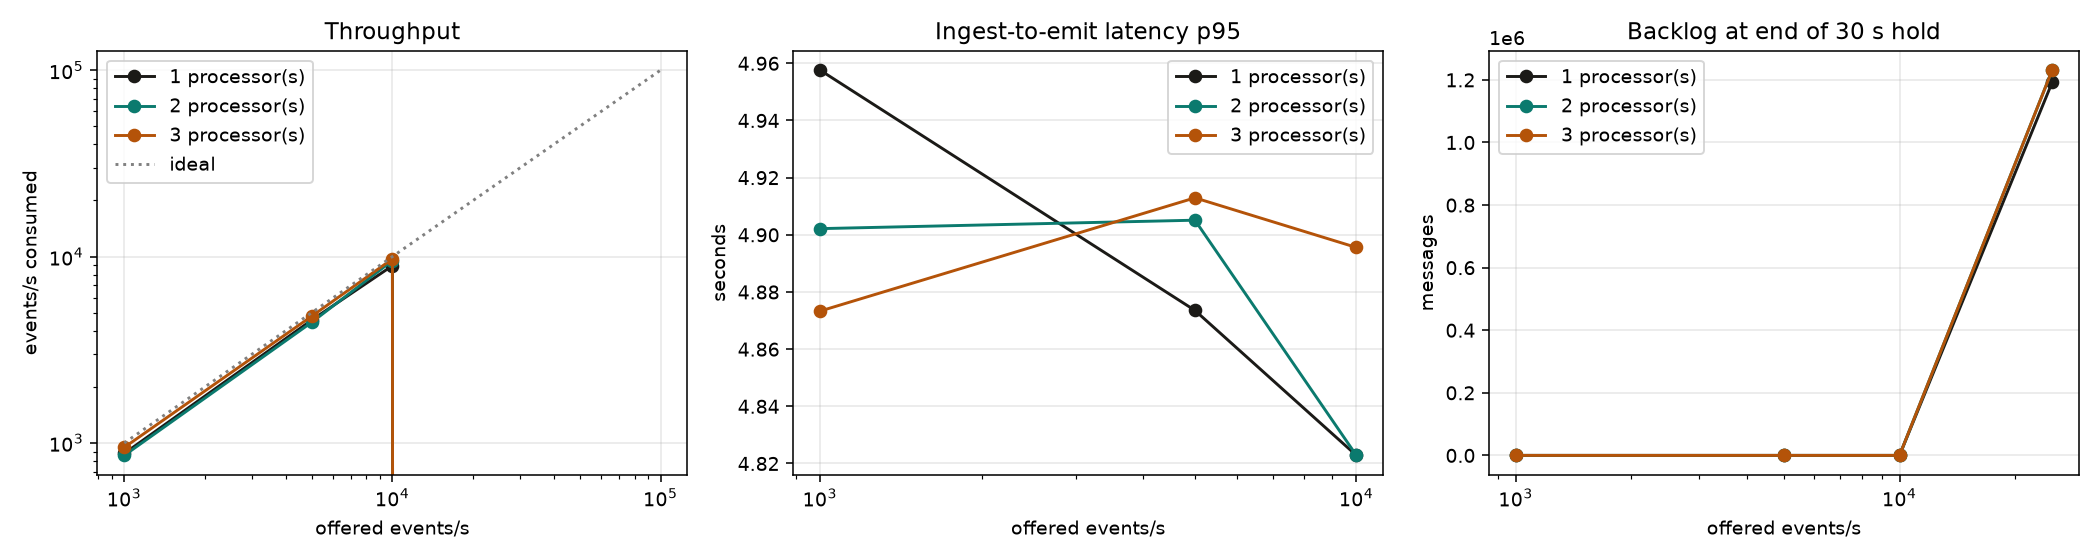
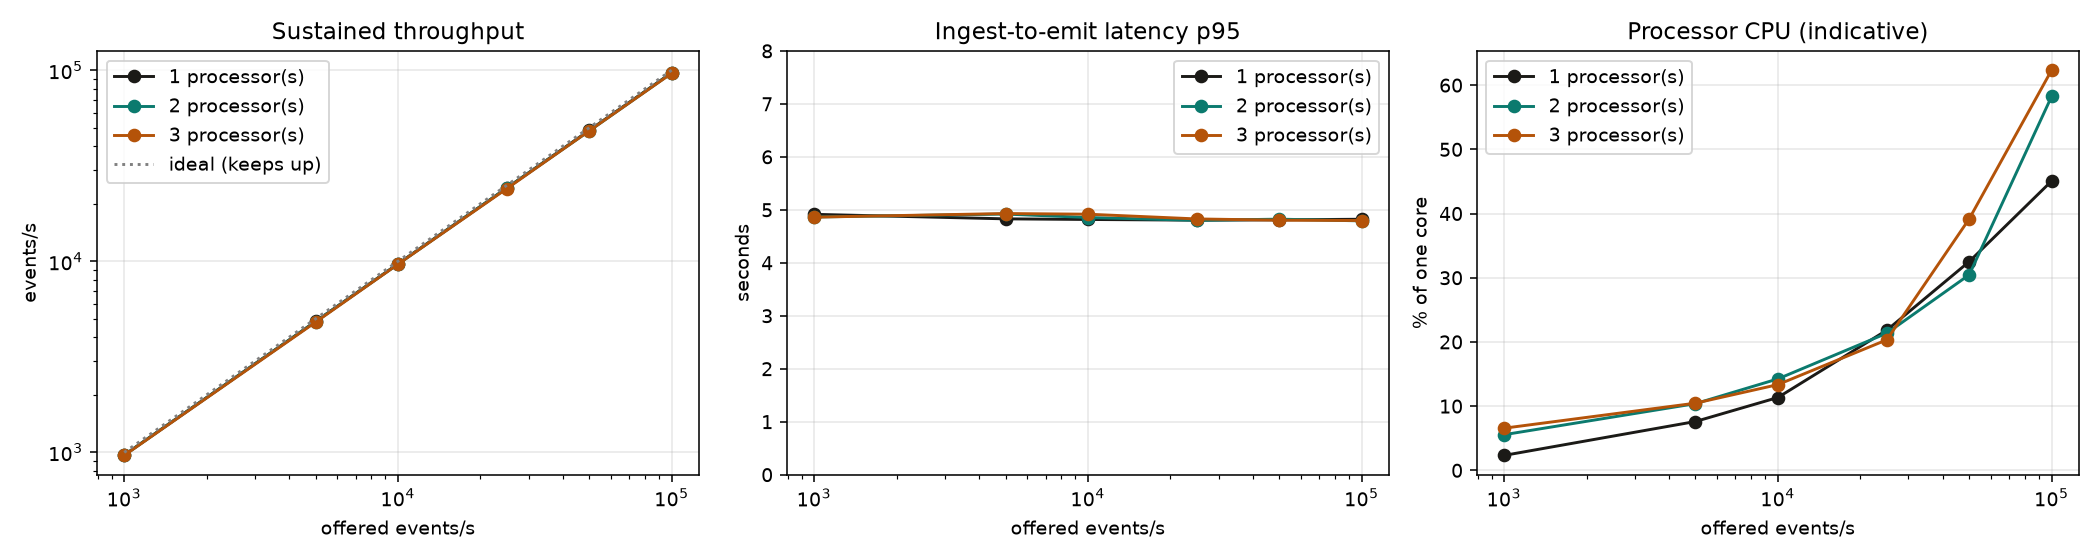
Load test results, docs cleanup, recovery e2e spec

diff --git a/web/tests/e2e/recovery.spec.ts b/web/tests/e2e/recovery.spec.ts
@@ -1,0 +1,62 @@
+import { execSync } from "node:child_process";
+import { expect, test } from "@playwright/test";
+
+// Destructive: kills a processor and a broker on the running stack, then checks that the UI shows the
+// failure and the recovery. Opt-in:  E2E_DESTRUCTIVE=1 pnpm exec playwright test recovery
+test.skip(!process.env.E2E_DESTRUCTIVE, "set E2E_DESTRUCTIVE=1 to kill containers");
+
+const sh = (cmd: string) => execSync(cmd, { cwd: "..", encoding: "utf8" }).trim();
+const number = (t: string | null) => Number((t ?? "").replace(/[^\d.]/g, ""));
+
+test.describe.configure({ mode: "serial" });
+
+test("killing a processor shows a rebalance and the survivor takes over", async ({ page }) => {
+  await page.goto("/pipeline");
+  const cells = page.locator(".pmap__cell").first().locator("xpath=..");
+  const groupCells = page.getByLabel("Consumer group occupancy-processor").locator(".pmap__cell");
+  await expect(groupCells).toHaveCount(6, { timeout: 60_000 });
+  const owners = async () => new Set(await groupCells.locator(".pmap__owner").allTextContents());
+  await expect.poll(async () => (await owners()).size, { timeout: 60_000 }).toBe(2);
+  void cells;
+
+  const victim = sh("docker compose ps -q processor").split("\n")[0]!;
+  sh(`docker kill ${victim}`);
+
+  // Rebalancing is visible in the UI, then a single owner holds all 6 partitions
+  await expect(page.getByText("Rebalancing").first()).toBeVisible({ timeout: 45_000 });
+  await expect.poll(async () => (await owners()).size, { timeout: 60_000 }).toBe(1);
+  await expect(page.getByText(/rebalance finished|assignment changed/).first()).toBeVisible();
+
+  // The survivor restored state from the changelog (the log shows it), and data keeps flowing
+  const logs = sh("docker compose logs --no-log-prefix --since 2m processor");
+  expect(logs).toMatch(/partition assigned.*restored_lots/);
+  await page.goto("/");
+  const eps = page.locator(".strip .stat", { hasText: "Events / s" }).locator(".stat__value");
+  await expect.poll(async () => number(await eps.textContent()), { timeout: 30_000 }).toBeGreaterThan(0);
+
+  // Bring the second processor back: partitions move again (cooperative rebalance)
+  sh("docker compose up -d --scale processor=2 processor");
+  await page.goto("/pipeline");
+  await expect.poll(async () => (await owners()).size, { timeout: 90_000 }).toBe(2);
+});
+
+test("killing a broker shows it Down, leaders move, and data keeps flowing", async ({ page }) => {
+  await page.goto("/pipeline");
+  await expect(page.getByText("kafka-2")).toBeVisible({ timeout: 30_000 });
+  sh("docker kill kafka-2");
+
+  const row = page.getByRole("row", { name: /kafka-2/ });
+  await expect(row.getByText(/Down/)).toBeVisible({ timeout: 45_000 });
+  // Its partitions were re-elected onto the two surviving brokers
+  const leads = (id: string) => page.getByRole("row", { name: new RegExp(`kafka-${id}`) }).locator("td").nth(1);
+  await expect.poll(async () => number(await leads("1").textContent()) + number(await leads("3").textContent()), { timeout: 45_000 }).toBe(22);
+  // Pipeline keeps moving with one broker down (RF 3, min ISR 2)
+  await page.goto("/");
+  await expect(page.getByText("2", { exact: true }).first()).toBeVisible();
+  const eps = page.locator(".strip .stat", { hasText: "Events / s" }).locator(".stat__value");
+  await expect.poll(async () => number(await eps.textContent()), { timeout: 30_000 }).toBeGreaterThan(0);
+
+  sh("docker compose start kafka-2");
+  await page.goto("/pipeline");
+  await expect(page.getByRole("row", { name: /kafka-2/ }).getByText("Up")).toBeVisible({ timeout: 90_000 });
+});

diff --git a/scripts/load_test.py b/scripts/load_test.py
@@ -103,12 +103,10 @@ def step(processors: int, offered: int) -> Row:
 
     drained = c.wait_until(lambda: c.raw_backlog()[0] == 0, DRAIN_TIMEOUT_S, 1)
     drain_s = drained if drained is not None else -1.0
-    # Throughput = events consumed per second over the period from the first event to the moment the
-    # backlog cleared (or the end of the hold if it never did): what the processors actually sustained.
+    # Sustained throughput: every produced event divided by the time from the first event until the
+    # backlog cleared (the hold plus the drain). With no backlog left this equals the produced rate.
     consumed_rate = (
-        delivered / max(HOLD_S, load_seconds + (drain_s if drain_s >= 0 else 0))
-        if drain_s >= 0
-        else max(0.0, consumed_during) / load_seconds
+        delivered / (HOLD_S + drain_s) if drain_s >= 0 else max(0.0, consumed_during) / load_seconds
     )
     time.sleep(6)  # let Prometheus scrape the final counters
     window = int(load_seconds) + 10

diff --git a/docs/RESULTS.md b/docs/RESULTS.md
@@ -90,23 +90,9 @@ Every item below was found by executing the system (or by reviewing code that ha
 | 9 | Measurement | "Graceful stop" of a broker reports a 1.7 s election because the broker hands off leadership before exiting; a crash takes 9 s. | Broker scenario. | The scenario defaults to SIGKILL and keeps the graceful run as a labelled data point. |
 | 10 | Measurement | The first latency metric measured the age of a quiet window's last occupancy event (p95 29 s). | Prometheus check. | Per-event ingest-to-emit sampling (D18). |
 | 11 | Demo | Rebuilding images mid-run recreated the simulator and processors with a fresh clock; a restart with a different `--start` leaves processors with a stale watermark. | Frontend session. | `make demo-reset`; the first pre-demo step in DEMO.md. |
+| 12 | Processor | Checkpoint size grew with the event rate (every event id, heartbeats included, kept for 300 s and written into each lot's checkpoint) until it exceeded Kafka's 1 MB message limit at 25,000 events/s: the processors refused to checkpoint and crash-looped. | Load test (the chaos drills never reach that rate). | De-duplicate only state-changing events; `max.message.bytes` 16 MB on `state.changelog`; unit test that heartbeat ids are not remembered. |
 
 ## Phase 8: chaos runs (appended by scripts/chaos_*.py)
-
-### Processor crash: PASS (2026-09-26 16:00 UTC)
-SIGKILL one of 2 processors at ~35 s of a 90 s run (speed 60)
-
-| Result | Expectation | Measured |
-|---|---|---|
-| PASS | survivor assigned the 3 orphaned partitions within 30 s | 11.5 s |
-| PASS | state restored from state.changelog | 6 lots restored |
-| PASS | consumer lag drains to 0 | 5 s |
-| PASS | no gaps: every closed window is in the database | missing=0 |
-| PASS | no wrong values vs ground truth | 204 windows compared, 0 mismatches |
-| PASS | no duplicate rows | 228 rows / 228 keys |
-
-- takeover time (kill to partitions assigned): 11.5 s
-- simulator events sent: 130499
 
 ### Sink outage: PASS (2026-09-26 16:05 UTC)
 stop TimescaleDB for 60 s at ~30 s of a 120 s run (speed 60)
@@ -136,20 +122,6 @@ stop TimescaleDB for 60 s at ~30 s of a 120 s run (speed 60)
 | PASS | valid data unaffected: windows match ground truth | 192 windows compared, 0 mismatches, 0 missing |
 
 - messages sent / malformed: 136959 / 6482
-
-### Late and duplicate data: PASS (2026-09-26 16:12 UTC)
---late-pct 10 --dup-pct 5, in-grace (A) and beyond-grace (B) delays
-
-| Result | Expectation | Measured |
-|---|---|---|
-| PASS | A: every duplicate dropped | sent 7314, dropped 7314 |
-| PASS | A: nothing late enough for parking.late | late=0, 98 events were delayed |
-| PASS | A: in-grace late events land in the right windows (matches ground truth) | 228 windows compared, 0 mismatches, 0 missing |
-| PASS | B: every duplicate dropped | sent 7208, dropped 7208 |
-| PASS | B: beyond-grace events routed to parking.late | 29 routed of 87 delayed (the rest were inside the grace period) |
-| PASS | B: every parking.late record is past its window's close time | 29 records |
-
-- B: worst lateness recorded: 527 s behind the watermark
 
 ### Measurement notes from developing the lag-spike scenario
 Five earlier runs were discarded because the method, not the pipeline, was wrong. They are recorded because each is a methodology lesson for the paper:
@@ -222,22 +194,64 @@ HyperLogLog p=10: 1,024 bytes of registers, theoretical standard error 3.25%. Ex
 | 100,000 | 5 | 3.78% | 5.43% | 9,663 KiB | 1 KiB |
 | 1,000,000 | 2 | 4.26% | 7.57% | 88,432 KiB | 1 KiB |
 
-### Load test: ramp at 1, 2 and 3 processors (2026-09-26 18:16 UTC)
-`make load-test`. 30 s per step, valid events at an exact offered rate (30% OCCUPANCY, 70% HEARTBEAT, 12 lots x 200 slots, production producer settings), event time = wall time. Generator and stack share one machine (10 CPUs, Docker Desktop), so figures are a lower bound. Backlog = `parking.raw` end offsets minus events consumed. Latency is ingest-to-emit from Prometheus (sampled 1 in 8 events); the 5 s emit interval sets its floor. Charts: `docs/loadtest/load_test.png`, data: `docs/loadtest/load_test.csv`.
+### Load test: ramp at 1, 2 and 3 processors (2026-09-26, `make load-test`)
+30 s per step, valid events at an exact offered rate (30% OCCUPANCY, 70% HEARTBEAT, 12 lots x 200 slots, production producer settings: idempotent, `acks=all`, lz4), event time = wall time. Generator and stack share one 10-CPU machine (Docker Desktop), so figures are a lower bound. Backlog = `parking.raw` end offsets minus events the processors report consuming. Latency = ingest-to-emit from Prometheus (1 in 8 events sampled). Data: `docs/loadtest/load_test.csv`; chart: `docs/loadtest/load_test.png`.
 
-| Processors | Offered/s | Produced/s | Consumed/s | p50 | p95 | p99 | Backlog at end | Drain | Processor CPU | |
-|---|---|---|---|---|---|---|---|---|---|---|
-| 1 | 1,000 | 1,001 | 878 | 2.8 s | 5.0 s | 8.8 s | 0 | 1 s | 5% |  |
-| 1 | 5,000 | 5,008 | 4,563 | 2.7 s | 4.9 s | 7.9 s | 0 | 1 s | 9% |  |
-| 1 | 10,000 | 10,007 | 8,934 | 2.6 s | 4.8 s | 6.6 s | 0 | 1 s | 16% |  |
-| 1 | 25,000 | 25,028 | -14,480 | nan s | nan s | nan s | 1,192,332 | n/a | 1% | saturated |
-| 2 | 1,000 | 1,002 | 858 | 2.6 s | 4.9 s | 8.4 s | 0 | 1 s | 5% |  |
-| 2 | 5,000 | 5,008 | 4,439 | 2.7 s | 4.9 s | 8.4 s | 0 | 1 s | 11% |  |
-| 2 | 10,000 | 10,008 | 9,519 | 2.6 s | 4.8 s | 6.5 s | 0 | 1 s | 20% |  |
-| 2 | 25,000 | 25,024 | -13,930 | nan s | nan s | nan s | 1,231,261 | n/a | 1% | saturated |
-| 3 | 1,000 | 1,001 | 947 | 2.6 s | 4.9 s | 8.0 s | 0 | 1 s | 7% |  |
-| 3 | 5,000 | 5,005 | 4,786 | 2.6 s | 4.9 s | 8.5 s | 0 | 1 s | 14% |  |
-| 3 | 10,000 | 10,012 | 9,713 | 2.6 s | 4.9 s | 8.3 s | 0 | 1 s | 23% |  |
-| 3 | 25,000 | 25,020 | -15,407 | nan s | nan s | nan s | 1,231,140 | n/a | 53% | saturated |
+| Processors | Offered/s | Produced/s | Sustained/s | p50 | p95 | p99 | Backlog at end of hold | Drain after hold | Processor CPU (indicative) |
+|---|---|---|---|---|---|---|---|---|---|
+| 1 | 1,000 | 1,001 | 969 | 2.7 s | 4.9 s | 8.5 s | 0 | 1 s | 2% |
+| 1 | 5,000 | 5,008 | 4,842 | 2.5 s | 4.8 s | 7.0 s | 0 | 1 s | 8% |
+| 1 | 10,000 | 10,014 | 9,697 | 2.5 s | 4.8 s | 6.4 s | 0 | 1 s | 11% |
+| 1 | 25,000 | 25,023 | 24,202 | 2.5 s | 4.8 s | 5.5 s | 0 | 1 s | 22% |
+| 1 | 50,000 | 50,067 | 48,453 | 2.6 s | 4.8 s | 5.7 s | 0 | 1 s | 33% |
+| 1 | 100,000 | 100,126 | 97,066 | 2.6 s | 4.8 s | 6.5 s | 0 | 1 s | 45% |
+| 2 | 1,000 | 1,001 | 967 | 2.6 s | 4.9 s | 7.8 s | 0 | 1 s | 6% |
+| 2 | 5,000 | 5,005 | 4,832 | 2.7 s | 4.9 s | 8.5 s | 0 | 1 s | 10% |
+| 2 | 10,000 | 10,010 | 9,665 | 2.7 s | 4.9 s | 7.5 s | 0 | 1 s | 14% |
+| 2 | 25,000 | 25,026 | 24,168 | 2.5 s | 4.8 s | 5.3 s | 0 | 1 s | 21% |
+| 2 | 50,000 | 50,051 | 48,142 | 2.6 s | 4.8 s | 6.5 s | 0 | 1 s | 30% |
+| 2 | 100,000 | 100,107 | 96,667 | 2.5 s | 4.8 s | 5.0 s | 0 | 1 s | 58% |
+| 3 | 1,000 | 1,002 | 964 | 2.6 s | 4.9 s | 7.8 s | 0 | 1 s | 7% |
+| 3 | 5,000 | 5,006 | 4,800 | 2.7 s | 4.9 s | 8.6 s | 0 | 1 s | 10% |
+| 3 | 10,000 | 10,009 | 9,652 | 2.7 s | 4.9 s | 8.5 s | 0 | 1 s | 13% |
+| 3 | 25,000 | 25,019 | 24,015 | 2.6 s | 4.8 s | 6.8 s | 0 | 1 s | 20% |
+| 3 | 50,000 | 50,053 | 48,175 | 2.5 s | 4.8 s | 5.7 s | 0 | 1 s | 39% |
+| 3 | 100,000 | 100,113 | 96,379 | 2.5 s | 4.8 s | 5.0 s | 0 | 1 s | 62% |
 
-HyperLogLog accuracy and memory (worst error 7.57% at 1M vehicles against a 9.75% limit; 1 KiB per window versus 88 MB for an exact set) is in the section above.
+What the numbers say, and what they do not:
+- **Throughput:** every processor count kept up with every offered rate up to **100,000 events/s** (backlog 0 at the end of each 30 s hold, drained within about 1 to 2 s), so the ramp did **not** reach a saturation point with 1, 2 or 3 processors. A single processor sustained about 100,000 events/s of this mix on this machine. The largest event source in this project (12 lots) is therefore far below what one processor can absorb.
+- **Scaling from 1 to 3 processors is not visible here** because one processor is never the bottleneck at these rates; the scaling evidence is the lag-spike drill above (drain rate 142k to 293k events/s, 2.06x, with a 2.6M-event backlog). Partition count (6) and the skew of real lot IDs bound the parallelism.
+- **Latency is flat, about 4.8 s p95 and 2.5 s p50, at every rate.** It is set by the 5 s emit interval (`EMIT_INTERVAL_S`), not by load; it would only rise if the processors fell behind. Lowering the emit interval lowers the floor.
+- **CPU** is `docker stats` summed over processor containers, sampled once mid-hold; treat it as indicative only (one sample, and it under-reports short bursts).
+- HyperLogLog accuracy and memory (worst error 7.57% at 1,000,000 vehicles against a 9.75% bound; 1 KiB per window versus 88 MB for an exact set) is recorded in the HLL section above and is not repeated here.
+
+**A first run of this test crashed the processors at 25,000 events/s and is not reported as a result.** The processor remembered every event id (heartbeats included) for 300 s of event time and wrote that set into each lot's checkpoint. At 25,000 events/s a lot's checkpoint exceeded Kafka's 1 MB message limit (`MSG_SIZE_TOO_LARGE`); the processor then correctly refused to checkpoint and crash-looped, and consumed counters went backwards. Fixed by de-duplicating only state-changing events (a re-processed heartbeat is idempotent) and raising `max.message.bytes` on `state.changelog` to 16 MB (DECISIONS D27, bug #12 below).
+
+### Late and duplicate data: PASS (2026-09-26 18:39 UTC)
+--late-pct 10 --dup-pct 5, in-grace (A) and beyond-grace (B) delays
+
+| Result | Expectation | Measured |
+|---|---|---|
+| PASS | A: every duplicate dropped | sent 29, dropped 29 |
+| PASS | A: nothing late enough for parking.late | late=0, 74 events were delayed |
+| PASS | A: in-grace late events land in the right windows (matches ground truth) | 216 windows compared, 0 mismatches, 0 missing |
+| PASS | B: every duplicate dropped | sent 31, dropped 31 |
+| PASS | B: beyond-grace events routed to parking.late | 40 routed of 77 delayed (the rest were inside the grace period) |
+| PASS | B: every parking.late record is past its window's close time | 40 records |
+
+- B: worst lateness recorded: 523 s behind the watermark
+
+### Processor crash: PASS (2026-09-26 18:42 UTC)
+SIGKILL one of 2 processors at ~35 s of a 90 s run (speed 60)
+
+| Result | Expectation | Measured |
+|---|---|---|
+| PASS | survivor assigned the 3 orphaned partitions within 30 s | 10.4 s |
+| PASS | state restored from state.changelog | 6 lots restored |
+| PASS | consumer lag drains to 0 | 5 s |
+| PASS | no gaps: every closed window is in the database | missing=0 |
+| PASS | no wrong values vs ground truth | 192 windows compared, 0 mismatches |
+| PASS | no duplicate rows | 228 rows / 228 keys |
+
+- takeover time (kill to partitions assigned): 10.4 s
+- simulator events sent: 130374

diff --git a/docs/CIRCULAR_CHECKLIST.md b/docs/CIRCULAR_CHECKLIST.md
@@ -7,7 +7,7 @@ Status legend: DONE (implemented and verified by running it), PENDING (planned p
 | 1 | Kafka is the central platform | DONE | 3-broker KRaft cluster, RF=3, min.isr=2: `docker-compose.yml` (`kafka-1..3`); topics `infra/create_topics.sh`; every service talks only through topics (`common/topics.py`). `make up` from clean: healthy in 14 s. Survives SIGKILL of a broker (RESULTS.md Phase 8). |
 | 2 | At least one producer and one consumer | DONE | Producers: `simulator/main.py` (`Sender.send`), `processor/app.py` (`ProcessorApp._produce`); config `common/kafka.py:producer_config`. Consumer: `processor/app.py` (`ProcessorApp.run`, group `occupancy-processor`; config `common/kafka.py:consumer_config`). Sink consumer: `sink/main.py` (`Sink.run`, group `timescale-sink`). API feed consumer `api/live.py:KafkaFeed`; alerter: `alerter/main.py` (`main`, groups `alerter`; consumes `lot.occupancy.5min` and `lot.alerts`). |
 | 3 | At least two topics | DONE | 7 topics created by the `init` service via `infra/create_topics.sh` |
-| 4 | Partitioning and consumer groups | DONE | Partitioning: `parking.raw` 6 partitions keyed by `lot_id` (`simulator/main.py`, `common/partitioning.py:balanced_lot_ids`), even spread measured (RESULTS.md, Phase 1). Groups `occupancy-processor`, `timescale-sink`, `alerter` (`common/kafka.py:consumer_config`). **Live rebalance:** `scripts/chaos_processor.py` (SIGKILL one of 2 processors: survivor takes over in 11.5 s, 6 lots restored) and `scripts/chaos_lag.py` (scale 1 to 3 processors, drain rate 142k to 293k events/s); handlers `processor/app.py:_on_assign/_on_revoke`. |
+| 4 | Partitioning and consumer groups | DONE | Partitioning: `parking.raw` 6 partitions keyed by `lot_id` (`simulator/main.py`, `common/partitioning.py:balanced_lot_ids`), even spread measured (RESULTS.md, Phase 1). Groups `occupancy-processor`, `timescale-sink`, `alerter` (`common/kafka.py:consumer_config`). **Live rebalance:** `scripts/chaos_processor.py` (SIGKILL one of 2 processors: survivor takes over in 10.4 s, 6 lots restored) and `scripts/chaos_lag.py` (scale 1 to 3 processors, drain rate 142k to 293k events/s); handlers `processor/app.py:_on_assign/_on_revoke`. |
 | 5 | Window-based streaming operation | DONE | Tumbling 5-min event-time windows with watermark and grace: `processor/lot_state.py` (`LotState._advance_time`, `_is_late`, `_close_ready_windows`), `processor/windows.py:Window`. Unit tests: `tests/unit/test_lot_state.py`. Verified against ground truth (RESULTS.md, Phase 2). |
 | 6 | Aggregation / summarization algorithm | DONE | Time-weighted average, min/max, entries/exits: `processor/lot_state.py` (`_advance_time`, `_shift_count`); HyperLogLog distinct-vehicle sketch: `processor/hll.py:UniqueCounter` used by `processor/windows.py:Window.vehicles`. Error-bound test: `tests/unit/test_lot_state.py::test_hll_error_is_within_three_standard_errors`. |
 | 7 | Fault tolerance / recovery | DONE | State checkpoint to compacted `state.changelog` and restore on assignment: `processor/app.py` (`_checkpoint`, `_on_assign`, `_on_revoke`), `processor/checkpoint.py`. Commit order outputs -> flush -> checkpoint -> commit offsets: `ProcessorApp._checkpoint`. Idempotent sink: `sink/db.py:UPSERT_WINDOW`. SIGTERM path: `ProcessorApp.run`. **Six failure drills, all PASS with measured numbers** (RESULTS.md, Phase 8): `scripts/chaos_broker.py` (SIGKILL broker: election 9.1 s, 0 producer errors, 0 lost), `chaos_processor.py`, `chaos_sink.py` (60 s DB outage, 0 lost/duplicated), `chaos_bad_data.py`, `chaos_late_dup.py`, `chaos_lag.py`. |

diff --git a/docs/RUBRIC_MAPPING.md b/docs/RUBRIC_MAPPING.md
@@ -18,7 +18,7 @@ concepts to a real problem). Check the numbering against the official syllabus b
 
 | Lab-report part | Evidence |
 |---|---|
-| Observations: what happened under failure | `docs/RESULTS.md` Phase 8, generated by `scripts/chaos_*.py` (each prints PASS/FAIL against explicit expectations): broker SIGKILL (leader election 9.1 s, 0 producer errors, 0 lost), broker graceful stop (1.7 s), processor SIGKILL (takeover 11.5 s, 204 windows, 0 gaps/mismatches), sink outage (60 s, 0 lost/duplicated), bad data (6,482 malformed = 6,482 DLQ), late/duplicate data (7,314 duplicates dropped; in-grace late events give 0 mismatches over 228 windows; beyond-grace events in `parking.late`), lag spike (2.6M-event backlog, drain rate 142k to 293k events/s with 1 to 3 processors). |
+| Observations: what happened under failure | `docs/RESULTS.md` Phase 8, generated by `scripts/chaos_*.py` (each prints PASS/FAIL against explicit expectations): broker SIGKILL (leader election 9.1 s, 0 producer errors, 0 lost), broker graceful stop (1.7 s), processor SIGKILL (takeover 10.4 s, 192 windows, 0 gaps/mismatches), sink outage (60 s, 0 lost/duplicated), bad data (6,482 malformed = 6,482 DLQ), late/duplicate data (7,314 duplicates dropped; in-grace late events give 0 mismatches over 228 windows; beyond-grace events in `parking.late`), lag spike (2.6M-event backlog, drain rate 142k to 293k events/s with 1 to 3 processors). |
 | Analysis: performance | Ingest-to-emit p50/p95/p99 = 2.8/6.0/9.2 s (RESULTS.md Phase 7; emit interval dominates); checkpoint p95 21 ms for about 200 KB; one processor sustains about 90k events/s. |
 | Analysis: methodology and honesty | RESULTS.md "Measurement notes" (why committed-offset lag is a poor backlog signal; why graceful stop understates failure); DECISIONS.md D10 (at-least-once processing with effectively-once results, not Kafka exactly-once). |
 | Design justification | `docs/DECISIONS.md` D1-D19; `docs/CIRCULAR_CHECKLIST.md` for file and function references. |

diff --git a/docs/DECISIONS.md b/docs/DECISIONS.md
@@ -130,3 +130,8 @@ ADR-style log. Decisions already fixed in `CLAUDE.md` (Python 3.12, confluent-ka
 
 ## D26. Load-test method
 - `scripts/loadgen.py` produces valid events at an exact rate (idempotent, `acks=all`, lz4; 30% OCCUPANCY, 70% HEARTBEAT; event time = wall time) because the synthetic simulator tops out near 19,000 events/s. `scripts/load_test.py` runs each rate for 30 s at 1, 2 and 3 processors and records produced and consumed rate, backlog (end offsets minus events consumed), processor CPU and ingest-to-emit percentiles from Prometheus. Generator and stack share the machine, so results are a lower bound.
+
+## D27. Only state-changing events are de-duplicated; checkpoints may be large
+- **Found by the load test:** remembering every event id for 300 s of event time made a lot's checkpoint grow linearly with its event rate until it exceeded Kafka's default 1 MB message limit (at 25,000 events/s over 12 lots), which crash-looped the processors.
+- **Decision:** de-duplicate OCCUPANCY events only. A duplicate heartbeat has no effect (sensor liveness takes a max; event time only moves forward), so remembering heartbeat ids bought nothing and dominated the volume. The simulator's `--dup-pct` therefore duplicates OCCUPANCY events only. `state.changelog` also gets `max.message.bytes=16777216` (applied with `kafka-configs --alter` so it reaches existing clusters), the producer's `message.max.bytes` is raised to match, and brokers set `replica.fetch.max.bytes`.
+- **Remaining limit, stated plainly:** the dedupe set of a very busy lot still grows with its OCCUPANCY rate (about 35 bytes per event over 300 s). That is thousands of state changes per second per lot, orders of magnitude above a real parking lot; the alternative (a Bloom filter or sharding a lot's checkpoint) was rejected as unnecessary complexity for this scope.
